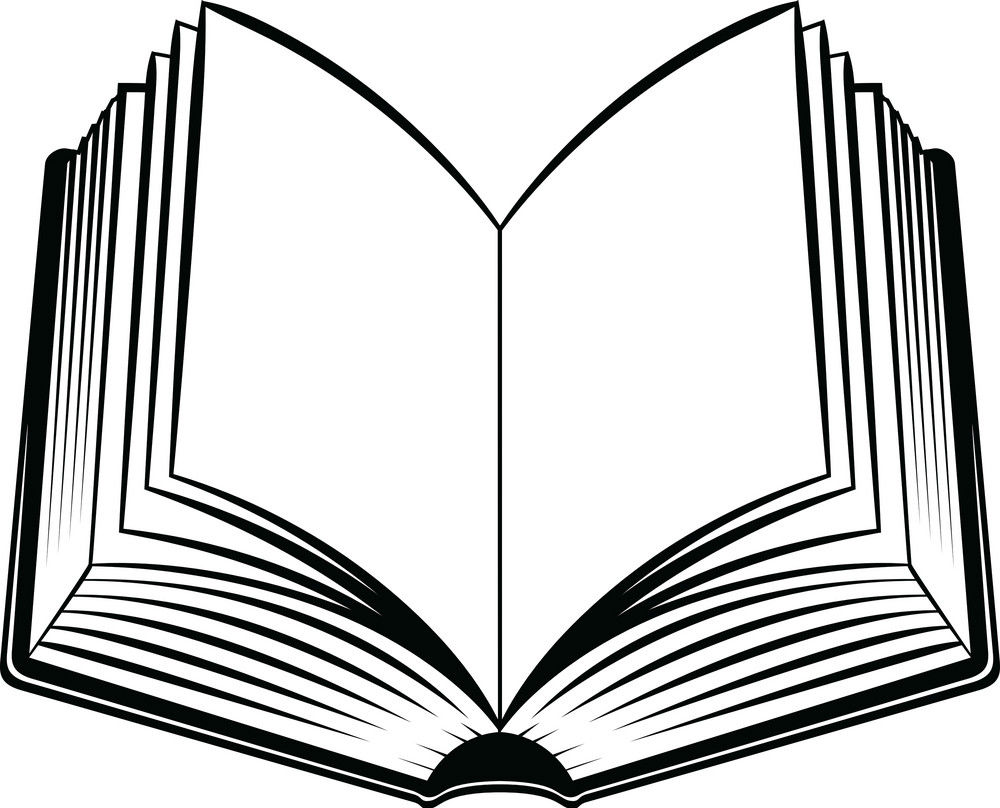
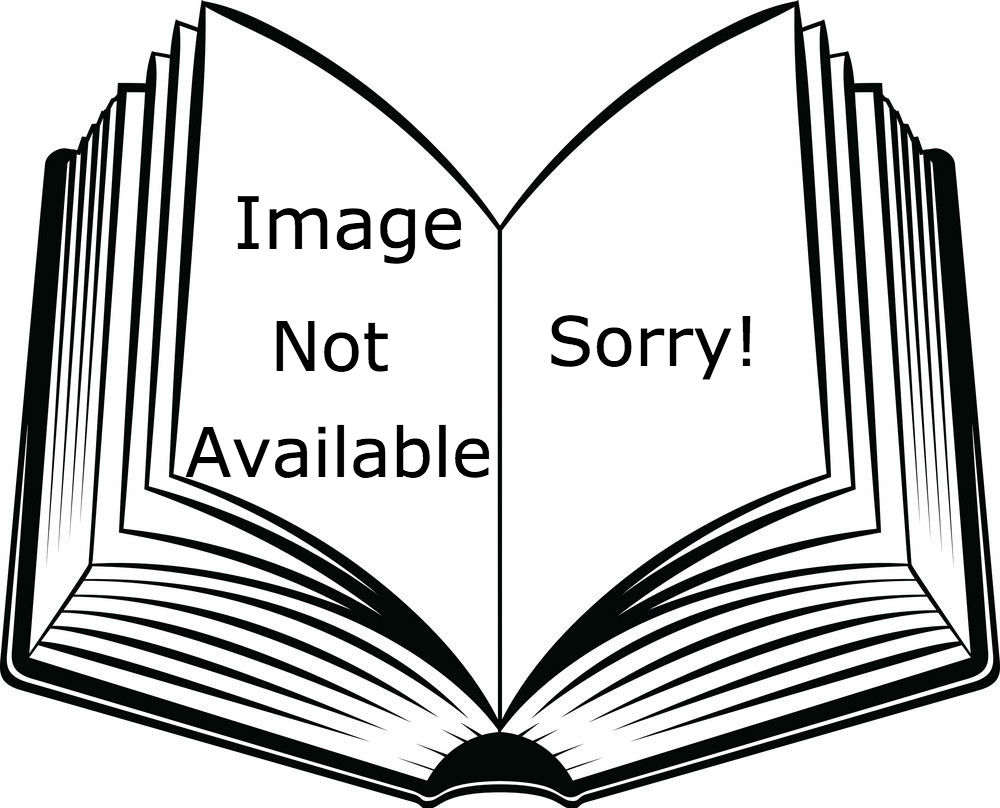
fixed image issue

diff --git a/client/components/SingleView.js b/client/components/SingleView.js
@@ -8,7 +8,7 @@ const SingleView = (props) => {
   //Looks at store to grab specific book, and displays results depending on what info exists 
   const book = props.state.results[`${parseInt(props.match.params.id)}`]
   const isbnNum = book.isbn ? book.isbn[0] : ""
-  const displayImage = isbnNum === "" ? "openBook.jpg" : `https://covers.openlibrary.org/b/isbn/${isbnNum}-M.jpg`
+  const displayImage = isbnNum === "" ? "/openBook.jpg" : `https://covers.openlibrary.org/b/isbn/${isbnNum}-M.jpg`
   const opening = book.hasOwnProperty('first_sentence') ? book.first_sentence : 'Sorry, Unvailable' 
 
   return (
